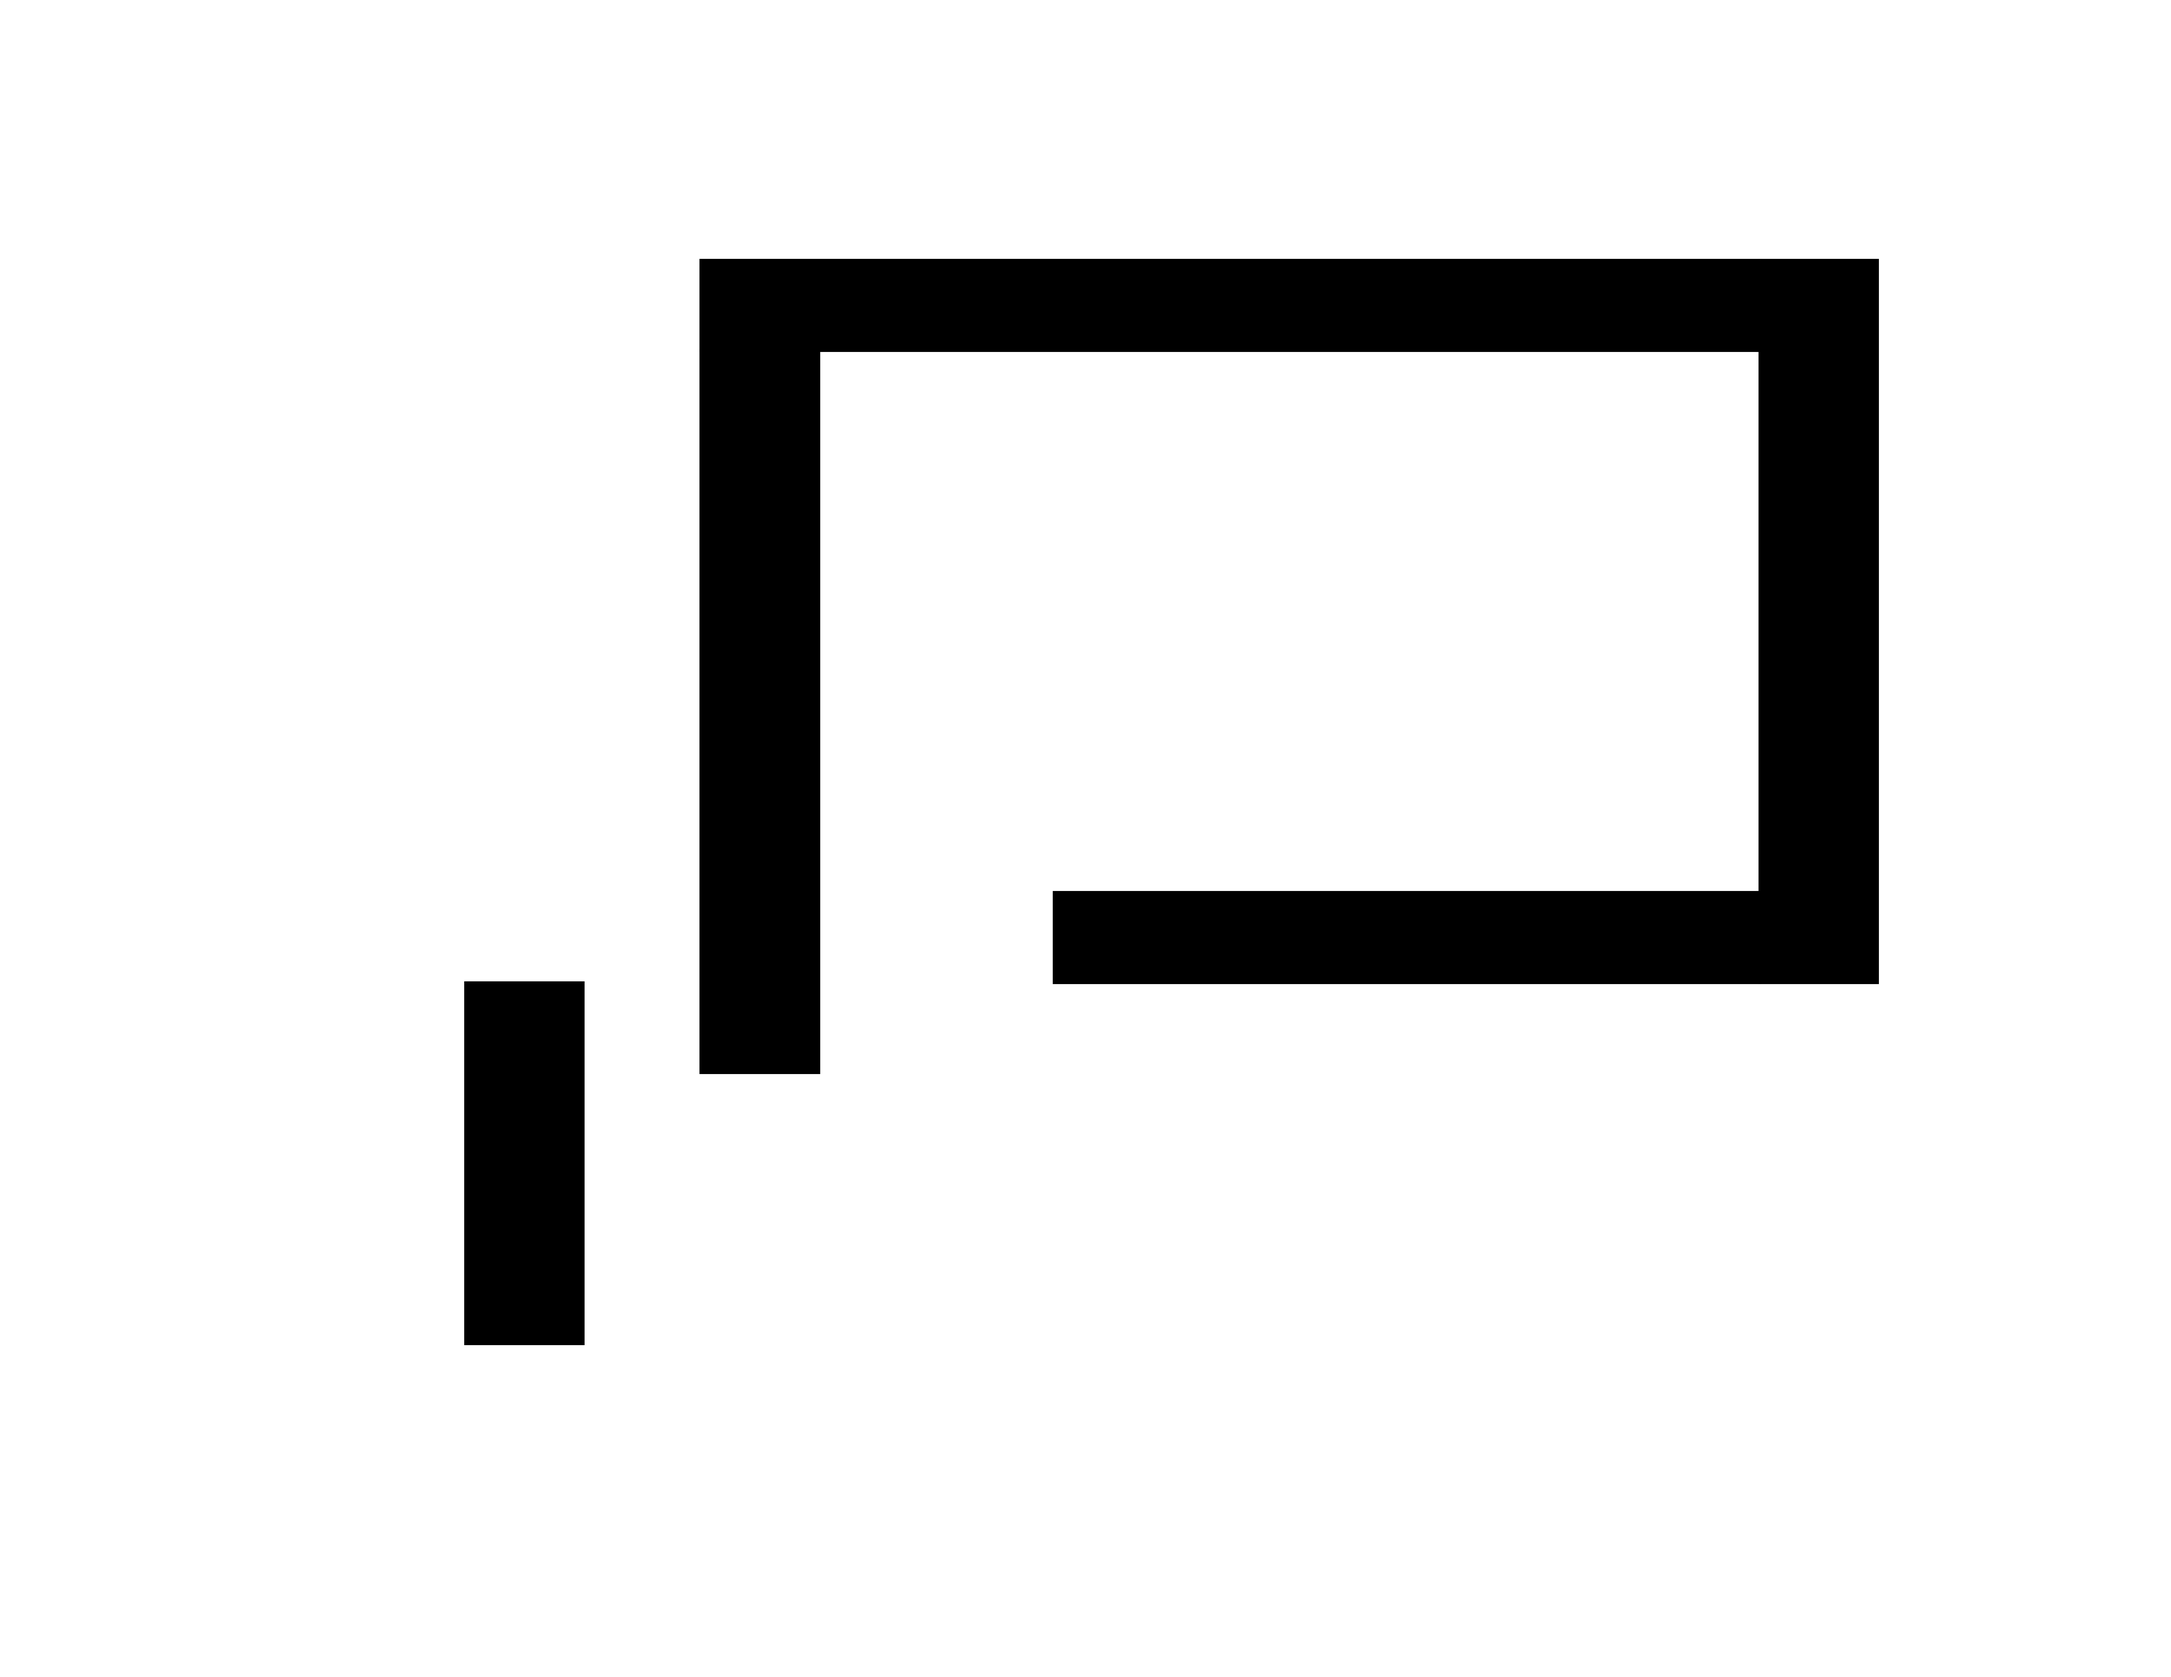
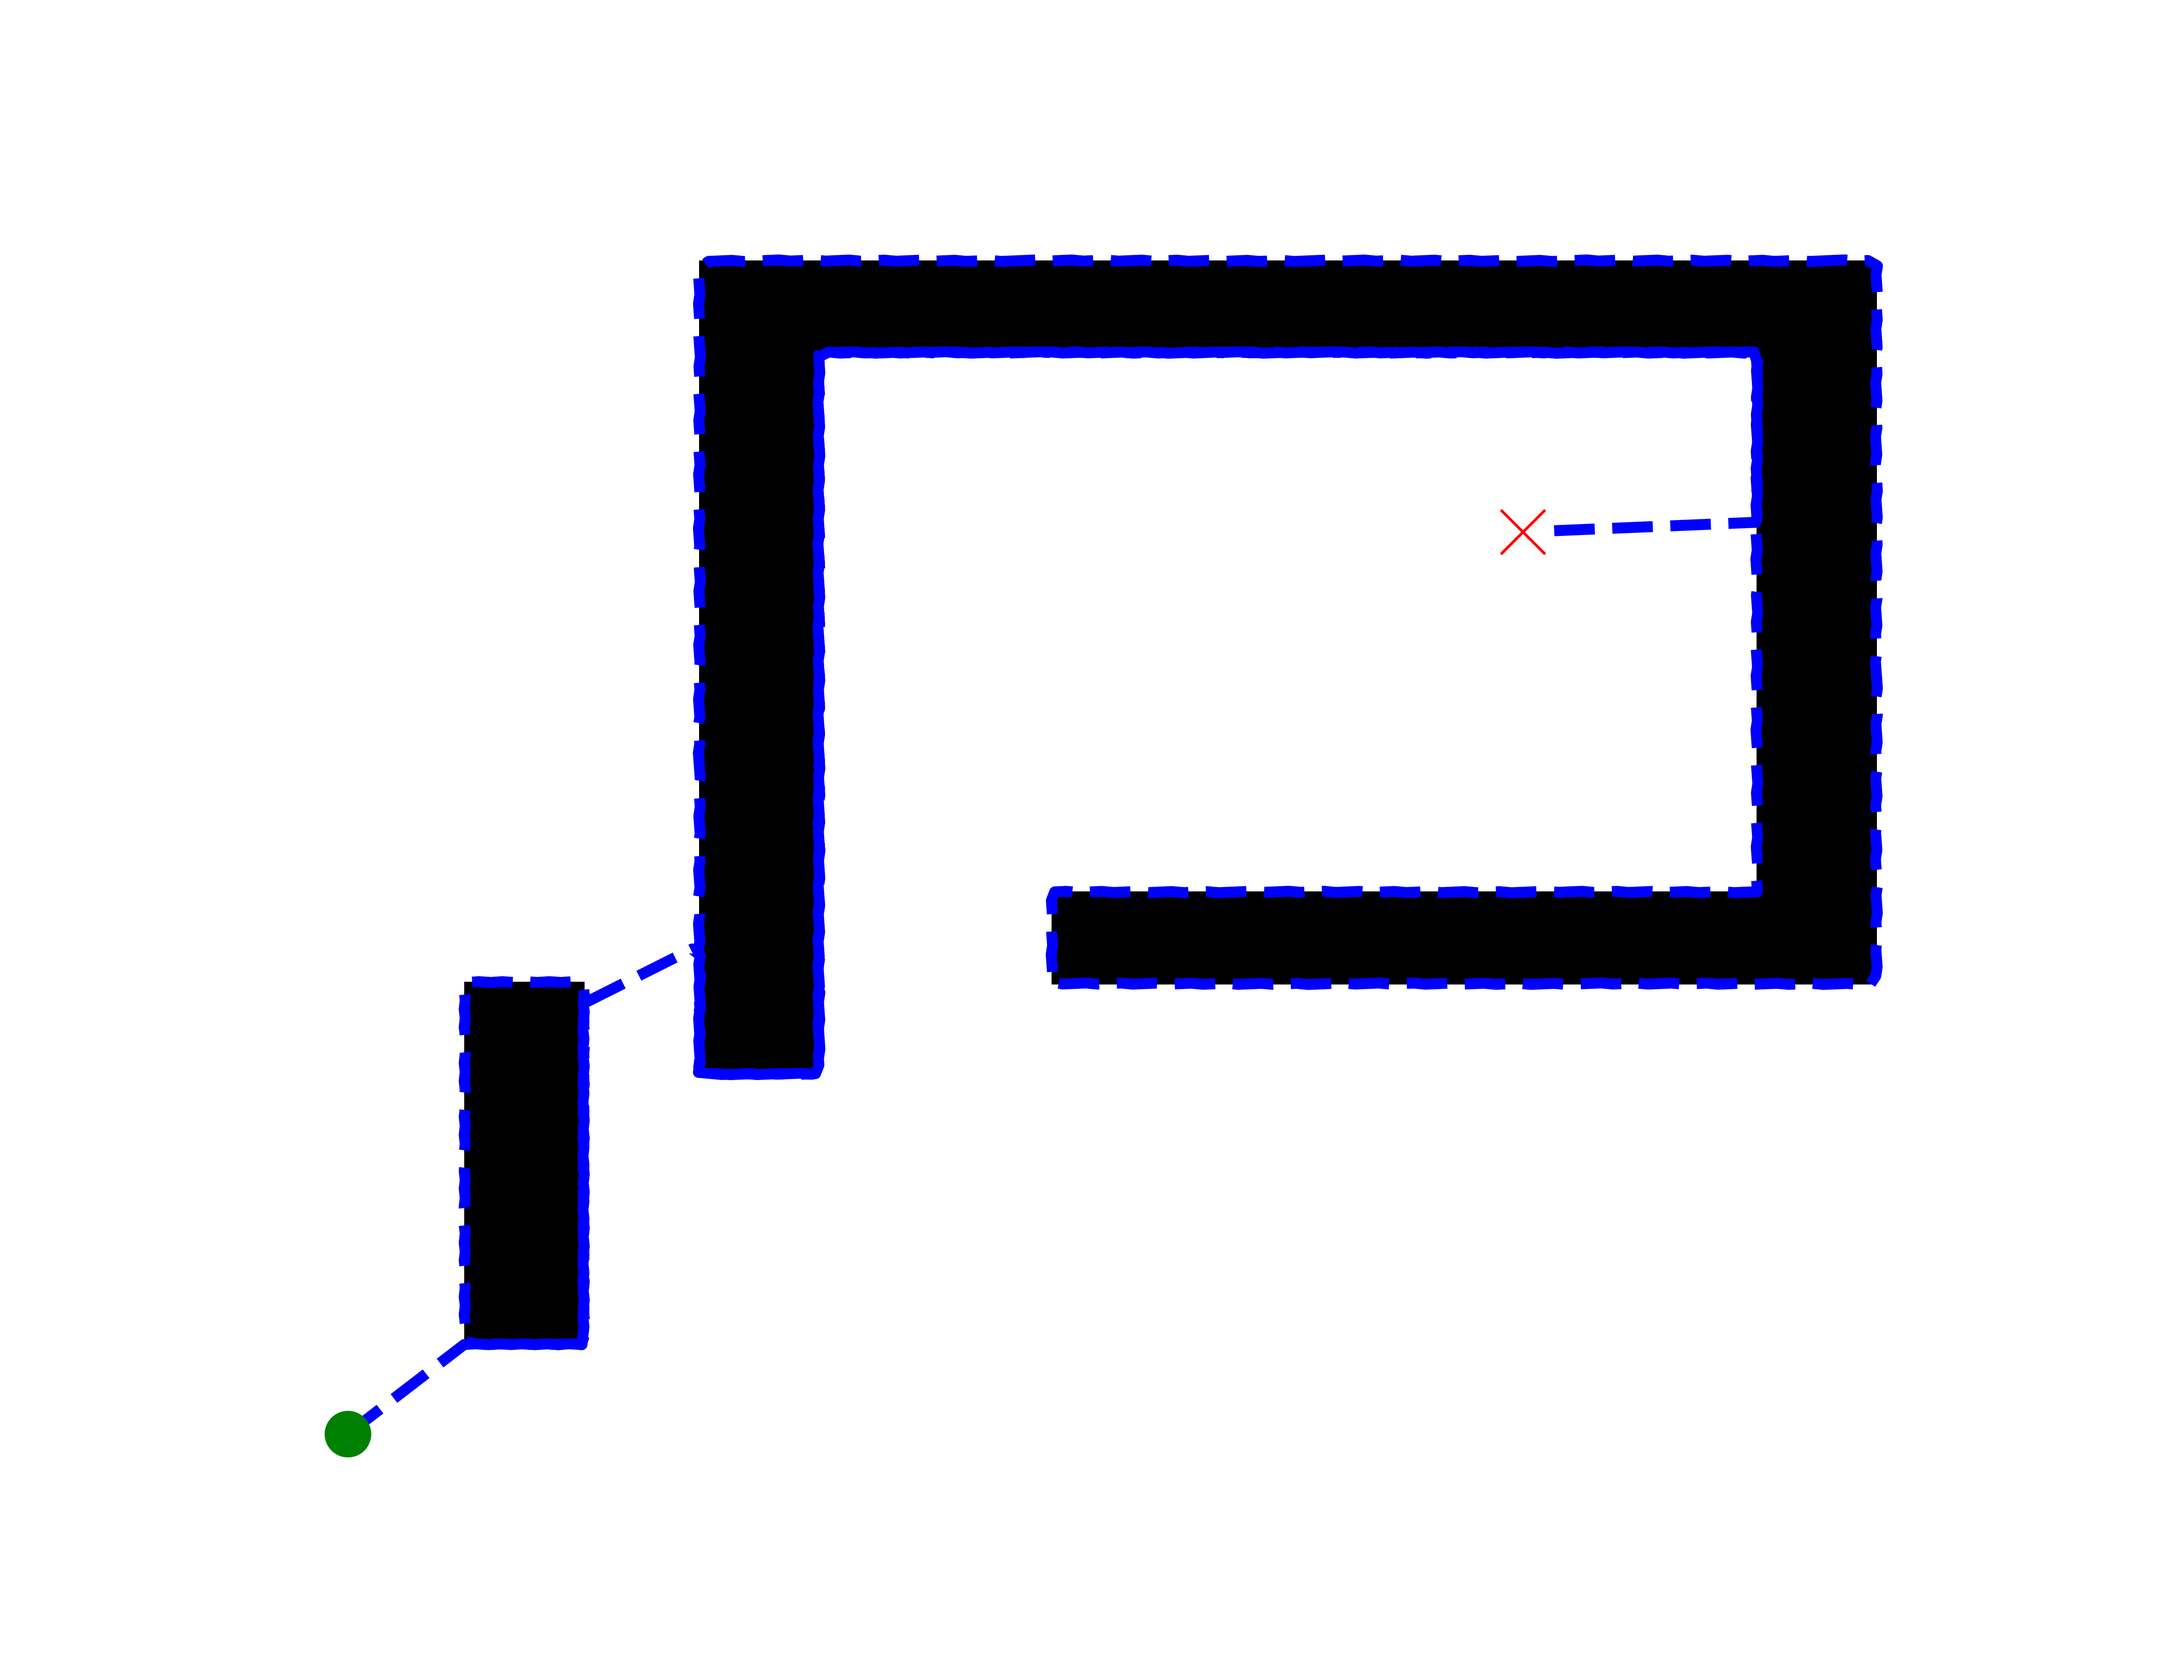
added shouldLeaveObstacle - Bug1 now works

diff --git a/BugAlgorithms.py b/BugAlgorithms.py
@@ -1,4 +1,3 @@
-import time
 
 
 #
@@ -57,7 +56,7 @@ class BugAlgorithm:
         # define multiplier on delta_t when robot motion simulation causes the
         # non-physical behavior of the robot colliding with an object
         self.delta_t = 0.1
-        self.scalingFactor = 0.95
+        self.scalingFactor = 0.8
 
     #
     # @brief      The main bug algorithm state machine controller
@@ -70,14 +69,12 @@ class BugAlgorithm:
 
         while not self.robot.isAtGoal():
 
+            print('------------')
             bugHitWall = self.moveUntilNewObstacle()
 
             if bugHitWall:
-
-                print('encountered new obstacle at: (',
-                      self.robot.currentState, ')')
                 self.followObstacle()
-                return True
+                print('------------')
 
     #
     # @brief      moves the robot in free workspace until the robot encounters
@@ -142,13 +139,10 @@ class BugAlgorithm:
     def followObstacle(self):
 
         print('following obstacle')
-
         delta_t = self.delta_t
-        counter = 0
         (newRobLoc, status) = self.robot.moveForward(self.robot.currentHeading,
                                                      delta_t)
-        while not self.robotShouldLeaveObstacle() and counter < 2000:
-            counter += 1
+        while not self.shouldLeaveObstacle():
             # hit the obstacle, rotate 180[deg], then turn left until the force
             # sensor collides with the wall, then rotate back right, then move
             # forwards again until you hit the wall again, repeat
@@ -178,9 +172,9 @@ class BugAlgorithm:
     # @return     returns True if the robot should leave the obstacle and head
     #             towards the goal, and False if not
     #
-    def robotShouldLeaveObstacle(self):
+    def shouldLeaveObstacle(self):
 
-        return False
+        raise NotImplementedError
 
 
 #
@@ -199,6 +193,54 @@ class Bug1(BugAlgorithm):
     def __init__(self, BugRobot):
 
         BugAlgorithm.__init__(self, BugRobot)
+        self.resetAlgorithm()
+
+    def shouldLeaveObstacle(self):
+
+        currLoc = self.robot.currentState
+        distToGoal = self.robot.distToGoal()
+
+        # robot just reached obstacle
+        if not all(self.coordsNearestGoal):
+            print('encountered new obstacle at:', currLoc)
+            self.coordsFirstEncounteredObstacle = currLoc
+            self.coordsNearestGoal = currLoc
+
+        # updating closest point on the obstacle to the goal
+        if distToGoal < self.shortestDistanceToGoalOnObst:
+            print('New coords on obstacle closest to goal: ', currLoc)
+            self.shortestDistanceToGoalOnObst = distToGoal
+            self.coordsNearestGoal = currLoc
+
+        startLoc = self.coordsFirstEncounteredObstacle
+        robotCloseToFirstLocOnObstacle = self.robot.isCloseTo(startLoc)
+
+        # robot has begun exploring obstacle
+        if not self.exploringObstacle and not robotCloseToFirstLocOnObstacle:
+            print('Robot now exploring obstacle')
+            self.exploringObstacle = True
+
+        # robot has explored the whole obstacle
+        elif self.exploringObstacle and robotCloseToFirstLocOnObstacle:
+            print('Robot has explored whole obstacle')
+            self.exploredWholeObstacle = True
+
+        # robot has explored whole object and has returned to the starting
+        # location, should signal state machine to transition to next state
+        closeLoc = self.coordsNearestGoal
+        if self.exploredWholeObstacle and self.robot.isCloseTo(closeLoc):
+            print('robot leaving obstacle from: ', currLoc)
+            self.resetAlgorithm()
+            return True
+        else:
+            return False
+
+    def resetAlgorithm(self):
+        self.coordsFirstEncounteredObstacle = [None, None]
+        self.coordsNearestGoal = [None, None]
+        self.exploredWholeObstacle = False
+        self.exploringObstacle = False
+        self.shortestDistanceToGoalOnObst = float('inf')
 
 
 #

diff --git a/BugRobot.py b/BugRobot.py
@@ -40,10 +40,12 @@ class BugRobot:
         self.velocityMag = 1
 
         # define the smallest angle [rad] the robot can rotate by
-        self.turnAngleResolution = (2 * math.pi) / 64
+        NUM_ROT_POSITIONS = 36
+        self.turnAngleResolution = (2 * math.pi) / NUM_ROT_POSITIONS
 
-        # 2-norm radius tolerance to be considered "at the goal"
-        self.atGoalTolerance = 0.1
+        # 2-norm radius tolerance to be considered "near" an object in
+        # workspace
+        self.nearObjTolerance = 0.2
 
         # define how far in front of the robot the bump sensor is
         # this is effectively the distance detection limit, and how far away
@@ -103,14 +105,28 @@ class BugRobot:
 
     def isAtGoal(self):
 
-        (xDist, yDist) = vectorComponentDiff(self.goalState, self.currentState)
-        distToGoal = vectorMag([xDist, yDist])
+        closeToGoal = self.isCloseTo(self.goalState)
 
-        closeToGoal = (distToGoal <= self.atGoalTolerance)
         if closeToGoal:
-            print('reached goal at:', xDist, yDist)
+            print('reached goal at:', self.goalState)
 
         return closeToGoal
+
+    def isCloseTo(self, targetLocation):
+        distToLocation = self.distToTarget(targetLocation)
+
+        return (distToLocation <= self.nearObjTolerance)
+
+    def distToGoal(self):
+        dist = self.distToTarget(self.goalState)
+
+        return dist
+
+    def distToTarget(self, target):
+        (xDist, yDist) = vectorComponentDiff(target, self.currentState)
+        distToLocation = vectorMag([xDist, yDist])
+
+        return distToLocation
 
     def rotate(self, targetState):
 

diff --git a/Workspace.py b/Workspace.py
@@ -127,8 +127,8 @@ class Workspace:
 
         # plotting the robot's path
         x, y = zip(*robotPath)
-        plt.plot(x, y, color='blue', linestyle='solid',
-                 linewidth=2, markersize=16)
+        plt.plot(x, y, color='blue', linestyle='dashed',
+                 linewidth=4, markersize=16)
 
         # plotting the start / end location of the robot
         plt.plot(startState[0], startState[1],
